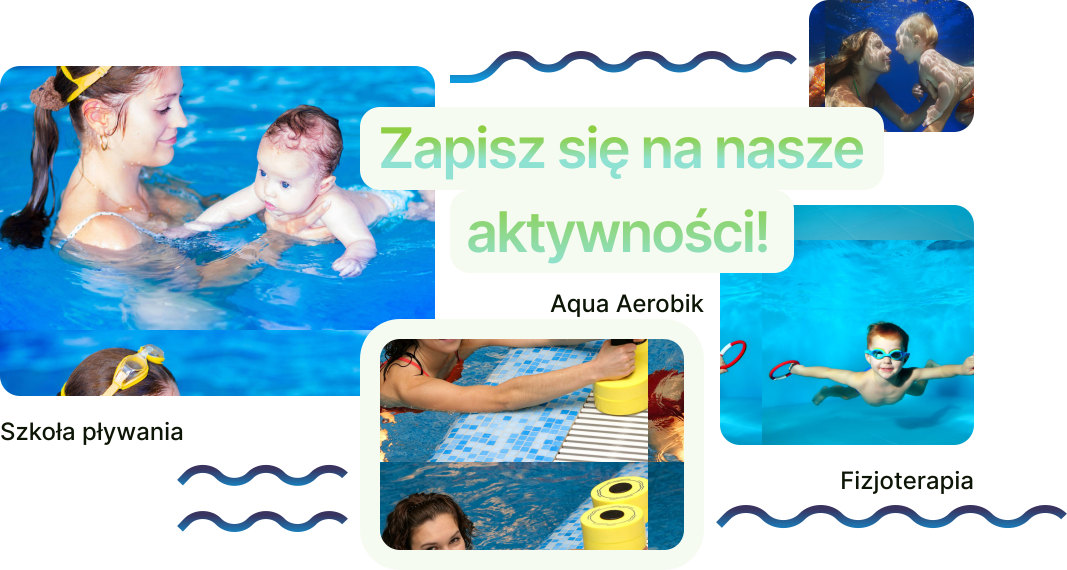
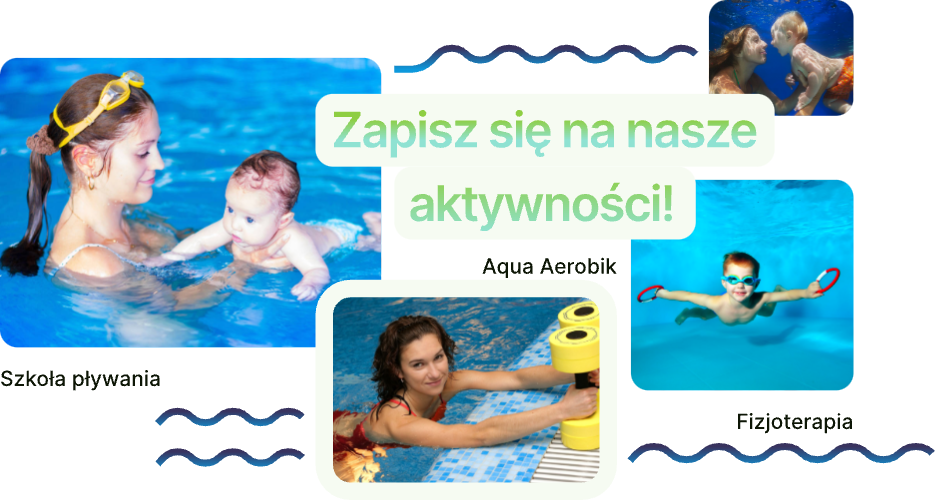
fix(header): fix images in header

diff --git a/src/layout/header/header.tsx b/src/layout/header/header.tsx
@@ -8,18 +8,20 @@ export function Header() {
         <div className={styles.background} />
         <Image
           src="/assets/header.png"
-          width={1000}
+          width={936}
           height={500}
           alt="nagłówek"
+          quality={100}
           priority
         />
       </div>
       <div className={styles.headerMobile}>
         <div className={styles.background} />
         <Image
-          src="/assets/header-mobile.png"
-          width={768}
+          src="/assets/header_mobile.png"
+          width={774}
           height={500}
+          quality={100}
           alt="nagłówek mobilny"
           priority
         />
